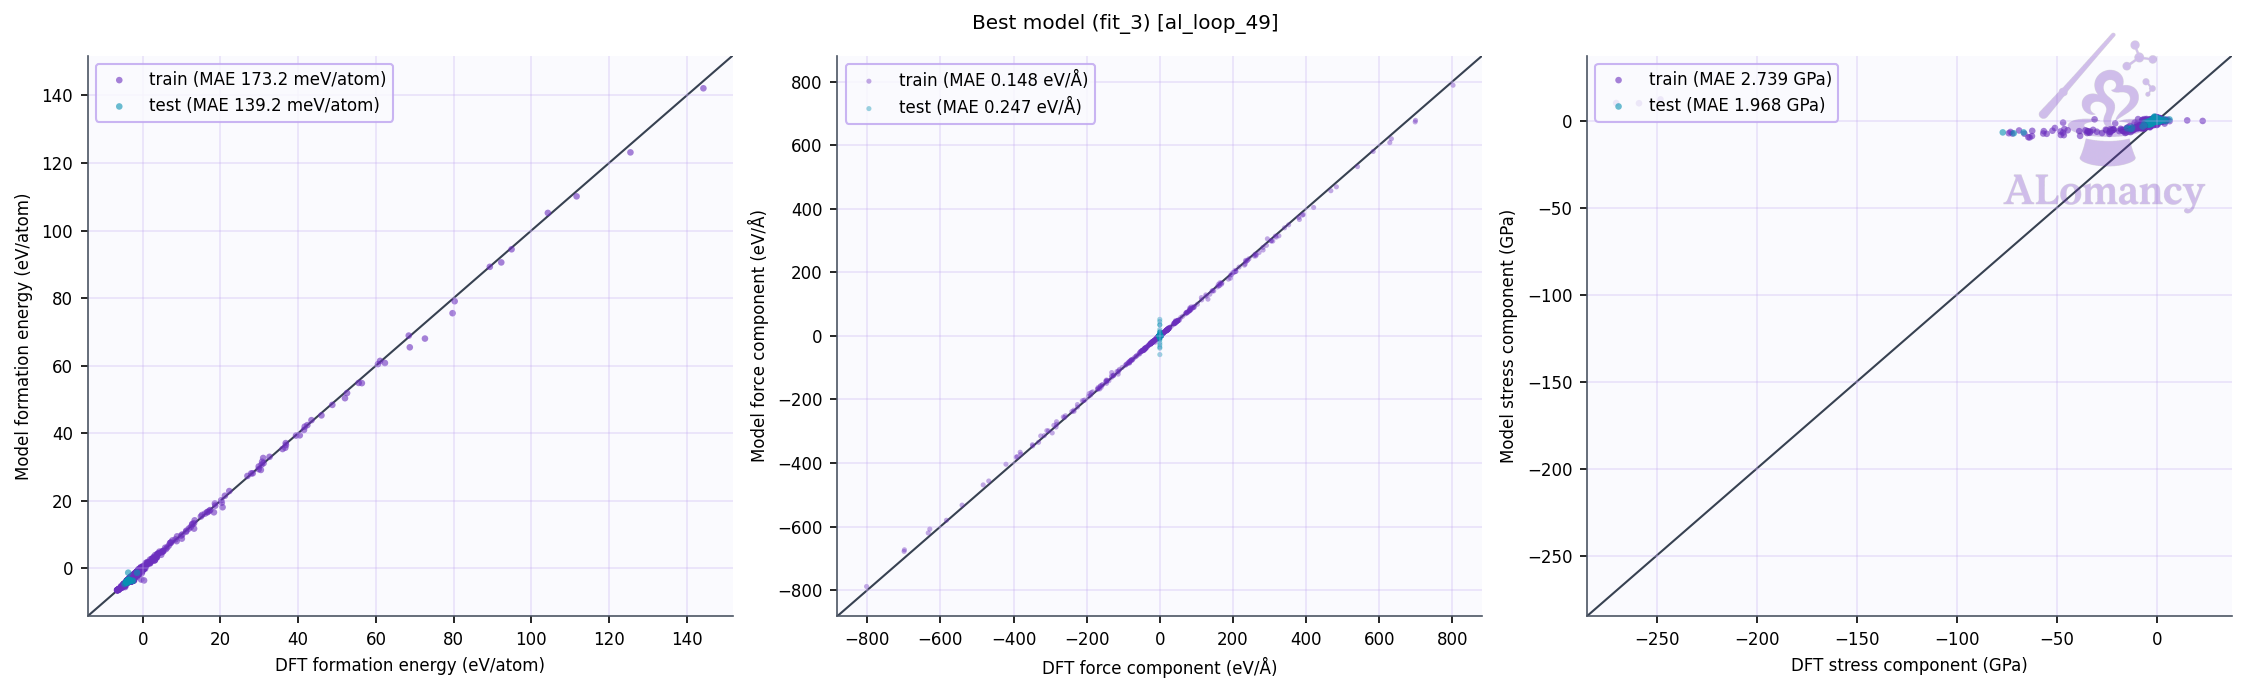
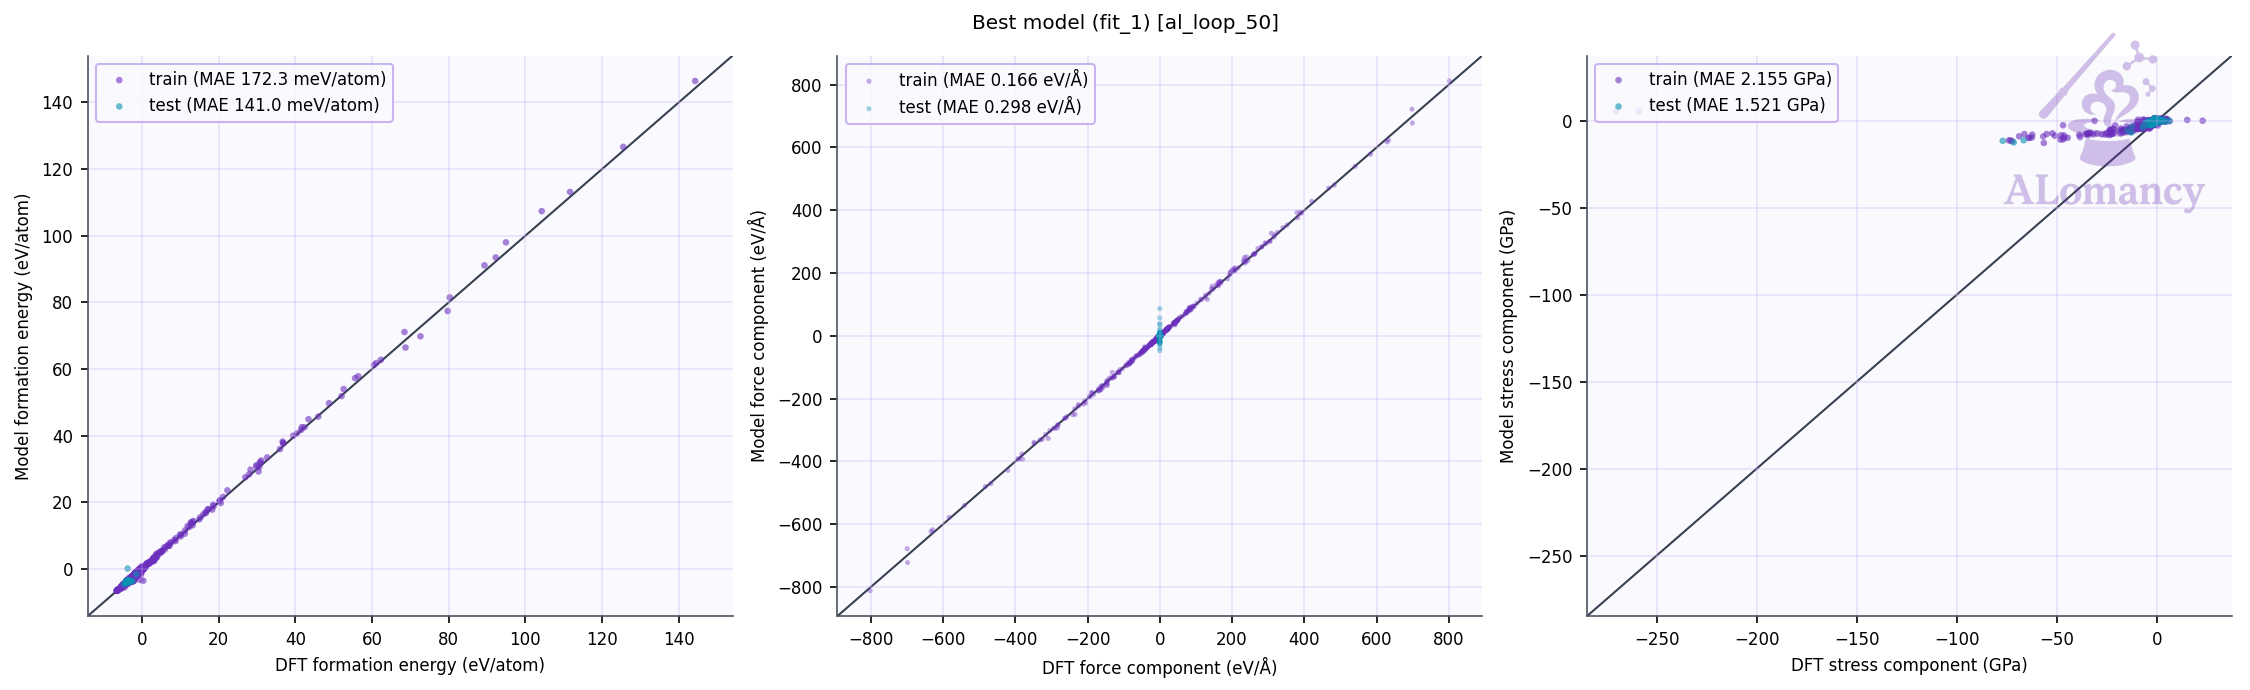
update yun_an

diff --git a/alomancy/yun_an/report/report.md b/alomancy/yun_an/report/report.md
@@ -1,28 +1,25 @@
-# ALomancy report: al_loop_49
+# ALomancy report: al_loop_50
 
-Workflow `committee_uncertainty` · trainer `mace` · generator `md` · evaluator `qe` · generated 2026-11-06T10:08:30
+Workflow `committee_uncertainty` · trainer `mace` · generator `md` · evaluator `qe` · generated 2026-11-06T12:56:04
 
-**Status:** ✖ 2 errors · ⚠ 2 warnings · 31 warning(s) logged
+**Status:** ✓ no issues · 0 warning(s) logged
 
 ## Headline
 
-| | loop 48 | loop 49 | change |
+| | loop 49 | loop 50 | change |
 |---|---:|---:|---:|
-| Best model test force MAE (eV/Å) | 0.418 | 0.247 | -41% |
-| Best model test energy MAE (meV/atom) | 160 | 139 | -13% |
-| Training structures | 2.15e+03 | 2.23e+03 | +4% |
-| Test structures | 120 | 130 | +8% |
-| New structures this loop | 75 | 76 | +1% |
-| Warnings / errors logged | 39 | 31 | -21% |
+| Best model test force MAE (eV/Å) | 0.247 | 0.298 | +21% |
+| Best model test energy MAE (meV/atom) | 139 | 141 | +1% |
+| Training structures | 2.23e+03 | 2.23e+03 | +0% |
+| Test structures | 130 | 130 | +0% |
+| New structures this loop | 76 | 0 | -100% |
+| Warnings / errors logged | 31 | 0 | -100% |
 
-Best model: fit_3 of 5 (chosen on the `valid` split).
+Best model: fit_1 of 5 (chosen on the `valid` split).
 
 ## Issues & suggestions
 
-- ✖ **remote_jobs_failed**: 26/136 remote jobs (19%) failed (21) or died (5). Check the job logs (results/alomancy.log has each failure's traceback); jobs killed by the scheduler usually need a longer max_time for that phase, or a partition with more memory.
-- ✖ **dft_partial_failure**: 24/100 structures sent to DFT (24%) came back without a result. Check the DFT output in results/<loop>/high_accuracy_evaluation; raise high_accuracy_evaluation.max_time / max_go_time if jobs timed out.
-- ⚠ **short_bond_excluded**: 4045/5107 structures (79%) were dropped for a bond shorter than 0.5 Å. The model is driving MD into collisions: lower md_kwargs.temperature or md_kwargs.timestep_fs, or add more short-range initialization data (dimers/trimers).
-- ⚠ **few_candidates_generated**: Structure generation produced only 137 usable candidates, less than twice the 100 structures added per loop, so the selector had little to choose from. Raise structure_generation.num_of_structures_to_generate (and md_kwargs.steps or structure_selection_kwargs.num_of_md_starts if MD runs end early).
+No issues detected.
 
 ## Trends
 
@@ -42,6 +39,7 @@ Best model: fit_3 of 5 (chosen on the `valid` split).
 | 47 | 0.373 | 2085 | 30 | 30/45 | 73% | 0 | 27 |
 | 48 | 0.418 | 2152 | 75 | 75/100 | 61% | 0 | 39 |
 | 49 | 0.247 | 2232 | 76 | 76/100 | 92% | 0 | 31 |
+| 50 | 0.298 | 2232 | 0 | 0 | n/a | 0 | 0 |
 
 ![Best-model MAE per loop](plots/training_al_loop_mae_plot.png)
 
@@ -51,7 +49,7 @@ Best model: fit_3 of 5 (chosen on the `valid` split).
 
 ![Best model parity](plots/best_model_parity.png)
 
-Median relative error: train energy 3.6%, force 18.7%; test energy 2.3%, force 148.1%.
+Median relative error: train energy 3.4%, force 21.6%; test energy 1.6%, force 155.2%.
 Energies with |formation energy| < 0.05 eV/atom and atoms with |F| < 0.1 eV/Å are left out; force error is |ΔF|/|F| per atom.
 
 ![Best model percentage error](plots/best_model_percent_error.png)
@@ -69,72 +67,23 @@ Energies with |formation energy| < 0.05 eV/atom and atoms with |F| < 0.1 eV/Å a
 | init_trimer | 571 | 0 | 0 | 0 | 571 |
 | **all** | **2232** | **130** | **36** | **989** | **3387** |
 
-- Redundancy removal: 36 structure(s) flagged in total, 0 of this loop's 76 new.
-- DFT geometry-optimisation starting frames: 76 stored this loop, 14 used (the rest excluded by the train/test filters or redundancy removal).
+- Redundancy removal: 36 structure(s) flagged in total, 0 of this loop's 0 new.
 - Quality filters: high_force: 987, formation_energy: 324.
 
 ![Training set composition](plots/training_set_composition.png)
 
-### Redundancy removal
-
-Redundancy removal flags near-duplicate training structures, so the model isn't trained on many copies of the same geometry. Each structure is described by `char_vec_128`: all of its interatomic distances, sorted and resampled to 128 values (`global_descriptor/atomic_distance_descriptor.make_char_vec`). Two structures count as duplicates when the Euclidean distance between their descriptors is below a tolerance: in database order, each structure still in the training set is kept unless it is within the tolerance of one already kept. The plot sweeps that tolerance and counts how many structures are kept at each value. **We are looking for plateaus** (shaded): ranges where the count doesn't change, so the result doesn't depend on the exact tolerance. The orange line (right axis) is the number of structures removed between consecutive tolerance steps, the gradient of the count: zero on a plateau. The start of the lowest plateau at least `general.redundancy_kwargs.min_plateau_width` of the swept range wide is used (dashed line). Nothing is flagged when no plateau qualifies, or when it would flag more than `max_flagged_fraction` of the structures; `general.redundancy_kwargs.tolerance` sets the tolerance directly.
-
-- This loop: 1,003 structures probed, tolerance 0.0398, 36 flagged as duplicates (8 plateau(s) found).
-
-![Redundancy tolerance probe](plots/redundancy_tolerance_probe.png)
-
 ## DFT
 
-- Structures: 76 returned of 100 submitted (76 relaxed, 0 single point).
-- Geometry optimisation: 70/76 reached the force ceiling (0.05 eV/Å); steps mean 134.5, median 130, max 200 of 200 allowed.
-- Average DFT time per relaxation: 302.9 min (median 282.9, max 574.2; 76 structures).
-- Largest per-atom force after DFT: median 0.05, max 0.34 eV/Å.
-- DFT phase wall-clock: 42.3 h (mean queue time 336 min).
-
-**Structures evaluated with DFT this loop (final geometries)**
-
-![Structures evaluated with DFT this loop (final geometries)](plots/added_structures.gif)
+No DFT this loop.
 
 ## MLIP training: mace
 
-- Best fit (fit_3) trained for 199 epochs, stage two from epoch 160; weights kept from epoch 160.
+- Best fit (fit_1) trained for 199 epochs, stage two from epoch 160; weights kept from epoch 162.
 
 ![Best model training curve](plots/best_model_training_curve.png)
-
-## Structure generation: MD
-
-- Runs: 25 (25 completed, 1 seed(s) replaced)
-- Frames: 4875 recorded, 925 physical (no bond < 0.5 Å, volume ≤ 3 x the seed's; 243 frame(s) cut after a run expanded past it, seed frames left out), 500 picked as candidates, spread over each run
-- Ensemble npt, T = 300 K, timestep 0.3 fs
-
-![MD frames per run](plots/md_frames_per_run.png)
-
-![MD temperature](plots/md_temperature.png)
-
-## High-accuracy evaluation: QE
-
-![DFT geometry steps](plots/dft_geometry_steps.png)
-
-![DFT wall time](plots/dft_wall_time.png)
-
-## Selection: committee uncertainty
-
-- 137 candidates scored; 100 selected (73 %; max force std dev ≥ 0.216 eV/Å).
-
-![Committee force std dev](plots/committee_force_std_dev.png)
 
 ## Warnings and events
 
 | event | meaning | count |
 |---|---|---:|
-| `dft_summary` | DFT batch summary | 1 |
-| `few_candidates_generated` | fewer than 2x per-loop candidates generated | 1 |
-| `job_died` | remote job died (killed / lost) | 5 |
-| `job_failed` | remote job failed | 21 |
-| `jobs_started` | remote jobs started | 5 |
-| `md_summary` | MD summary | 1 |
-| `md_volume_expanded` | MD runs cut after expanding past max_volume_ratio | 1 |
-| `mlip_relax_dropped` | candidates dropped by MLIP relaxation | 1 |
-| `quality_filtered` | train/test quality filter passes | 2 |
-| `redundancy_flagged` | redundancy removal passes | 1 |
-| `short_bond_excluded` | structures dropped for a short bond | 2 |
+| `jobs_started` | remote jobs started | 1 |
